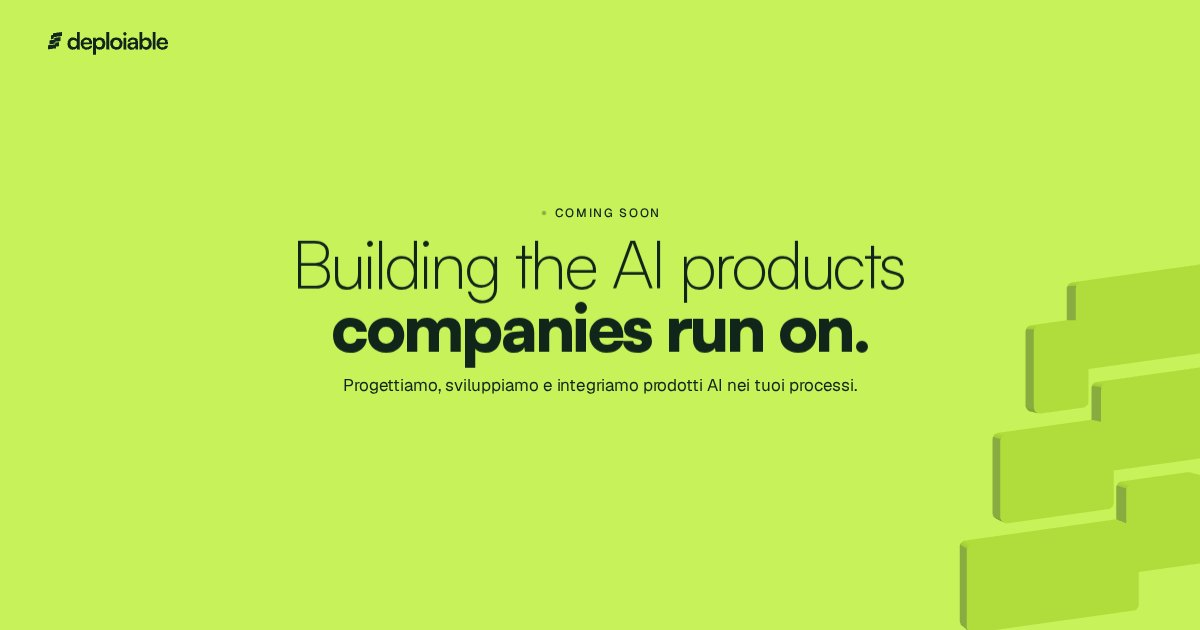
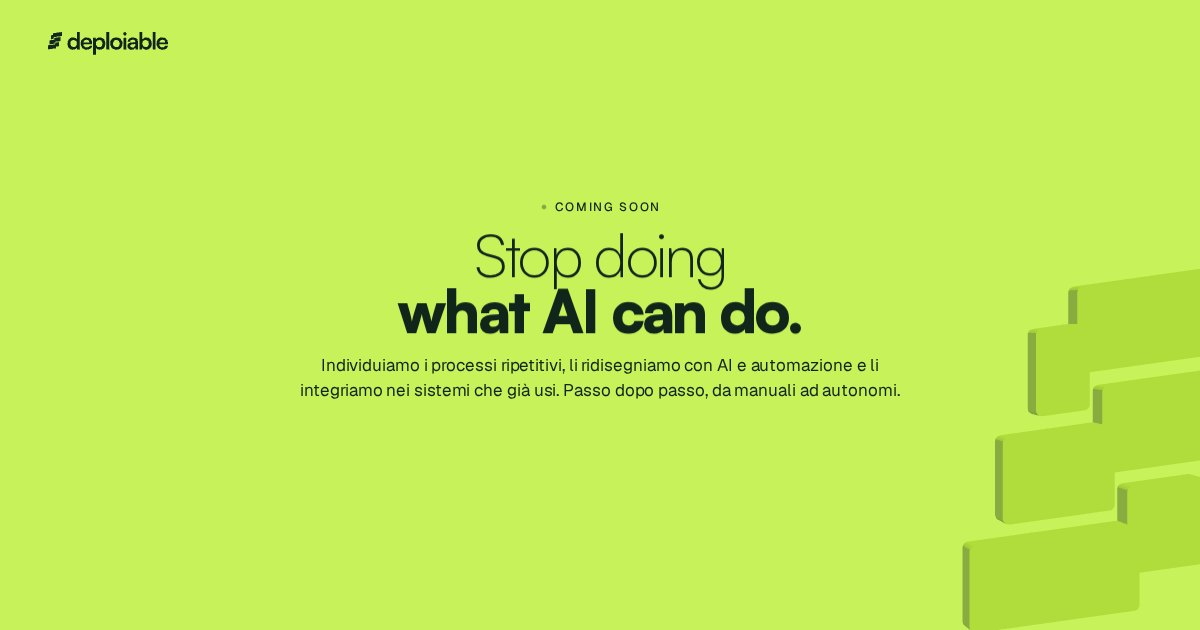
Comunicazione sul cuore del servizio: "Stop doing what AI can do."
- Headline "Stop doing / what AI can do.", corpo ricalcolato per le nuove
  righe (hero centrato in altezza, righe centrate sui pixel)
- Sottotitolo: individuiamo i processi ripetitivi, li ridisegniamo con AI e
  automazione, li integriamo nei sistemi esistenti; da manuali ad autonomi
- Racconto: Analisi, Riprogettazione, Autonomia (EN: Discovery, Redesign,
  Autonomy); il terzo step racconta il passaggio da assistito ad autonomo
- Chiusura: una riga sui prodotti AI-native che nascono dai bisogni delle
  aziende
- Meta, anteprima social e test aggiornati

Claude-Session: https://claude.ai/code/session_01PeA7XYbHTW5WLG5P8a7u88

diff --git a/site/index.html b/site/index.html
@@ -3,12 +3,12 @@
   <head>
     <meta charset="utf-8" />
     <meta name="viewport" content="width=device-width, initial-scale=1, viewport-fit=cover" />
-    <title>Deploiable · Building the AI products companies run on.</title>
-    <meta name="description" content="Building the AI products companies run on. Progettiamo, sviluppiamo e integriamo prodotti AI nei tuoi processi. Coming soon." data-i18n-attr="content:meta.description" />
+    <title>Deploiable · Stop doing what AI can do.</title>
+    <meta name="description" content="Stop doing what AI can do. Individuiamo i processi ripetitivi, li ridisegniamo con AI e automazione e li integriamo nei sistemi che già usi. Passo dopo passo, da manuali ad autonomi. Coming soon." data-i18n-attr="content:meta.description" />
     <meta name="theme-color" content="#10261B" />
     <meta property="og:type" content="website" />
-    <meta property="og:title" content="Deploiable · Building the AI products companies run on." data-i18n-attr="content:meta.title" />
-    <meta property="og:description" content="Progettiamo, sviluppiamo e integriamo prodotti AI nei tuoi processi. Coming soon." data-i18n-attr="content:og.description" />
+    <meta property="og:title" content="Deploiable · Stop doing what AI can do." data-i18n-attr="content:meta.title" />
+    <meta property="og:description" content="Individuiamo i processi ripetitivi, li ridisegniamo con AI e automazione e li integriamo nei sistemi che già usi. Passo dopo passo, da manuali ad autonomi. Coming soon." data-i18n-attr="content:og.description" />
     <meta property="og:locale" content="it_IT" />
     <meta property="og:locale:alternate" content="en_GB" />
     <meta property="og:image" content="%VITE_SITE_URL%og.jpg" />
@@ -44,10 +44,10 @@
       <section class="hero">
         <p class="soon"><i class="soon-dot" aria-hidden="true"></i><span data-i18n="launch" lang="en">Coming soon</span></p>
         <h1 class="claim">
-          <span class="mask"><span class="line line--light" lang="en">Building the AI products</span></span>
-          <span class="mask"><span class="line line--black" lang="en">companies run on.</span></span>
+          <span class="mask"><span class="line line--light" lang="en">Stop doing</span></span>
+          <span class="mask"><span class="line line--black" lang="en">what AI can do.</span></span>
         </h1>
-        <p class="sub" data-i18n="sub">Progettiamo, sviluppiamo e integriamo prodotti AI nei tuoi processi.</p>
+        <p class="sub" data-i18n="sub">Individuiamo i processi ripetitivi, li ridisegniamo con AI e automazione e li integriamo nei sistemi che già usi. Passo dopo passo, da manuali ad autonomi.</p>
         <div class="outro">
           <p class="offer-title" data-i18n="form.offer.title">AI process review gratuita</p>
           <p class="offer" data-i18n="form.offer">Per le prime 20 aziende: analizziamo i tuoi processi e ti mostriamo dove l’AI rende di più.</p>
@@ -105,24 +105,25 @@
             <div class="story-acts">
               <article class="act">
                 <p class="act-kicker" data-i18n="story.1k">Analisi</p>
-                <h2 class="act-title" data-i18n="story.1">Partiamo dal problema.</h2>
-                <p class="act-sub" data-i18n="story.1s">Analizziamo i processi e individuiamo dove l’AI porta un beneficio misurabile: tempo, errori, qualità delle decisioni.</p>
+                <h2 class="act-title" data-i18n="story.1">Troviamo il lavoro ripetitivo.</h2>
+                <p class="act-sub" data-i18n="story.1s">Mappiamo i processi e individuiamo quelli dove AI e automazione fanno risparmiare più tempo ed errori.</p>
               </article>
               <article class="act">
-                <p class="act-kicker" data-i18n="story.2k">Sviluppo</p>
-                <h2 class="act-title" data-i18n="story.2">Costruiamo il prodotto.</h2>
-                <p class="act-sub" data-i18n="story.2s">Lo sviluppiamo su misura per te, oppure partiamo da un nostro prodotto già validato sul mercato.</p>
+                <p class="act-kicker" data-i18n="story.2k">Riprogettazione</p>
+                <h2 class="act-title" data-i18n="story.2">Lo ridisegniamo con l’AI.</h2>
+                <p class="act-sub" data-i18n="story.2s">Ripensiamo il processo attorno ad AI e automazione e lo colleghiamo ai sistemi che già usi: ERP, CRM, email, documenti.</p>
               </article>
               <article class="act">
-                <p class="act-kicker" data-i18n="story.3k">Adozione</p>
-                <h2 class="act-title" data-i18n="story.3">Lo mettiamo in produzione.</h2>
-                <p class="act-sub" data-i18n="story.3s">Integrato nei tuoi sistemi, con KPI per misurarne l’impatto e regole chiare per farlo crescere in sicurezza.</p>
+                <p class="act-kicker" data-i18n="story.3k">Autonomia</p>
+                <h2 class="act-title" data-i18n="story.3">Lo rendiamo autonomo, un passo alla volta.</h2>
+                <p class="act-sub" data-i18n="story.3s">Prima l’AI assiste le persone, poi esegue da sola dove è sicuro farlo. Ogni passaggio è misurato con i KPI.</p>
               </article>
             </div>
             <div class="story-meter" aria-hidden="true"><i></i><i></i><i></i></div>
           </div>
           <article class="act act--end">
-            <p class="act-claim" lang="en"><span>Building the AI products </span><strong>companies run on.</strong></p>
+            <p class="act-claim" lang="en"><span>Stop doing </span><strong>what AI can do.</strong></p>
+            <p class="act-note" data-i18n="end.note">Dai bisogni che troviamo nelle aziende nascono anche i nostri prodotti AI-native.</p>
             <a class="act-cta" href="#signup-email"><span data-i18n="form.submit">Prenota la tua AI process review</span></a>
           </article>
         </div>

diff --git a/site/src/i18n.ts b/site/src/i18n.ts
@@ -12,10 +12,10 @@ export type Lang = 'it' | 'en';
 /** Etichetta del lancio: niente data per ora, solo "Coming soon" (in maiuscolo dal CSS), uguale nelle due lingue. */
 export const LAUNCH = 'Coming soon';
 
-const TAGLINE = 'Building the AI products companies run on.'; // resta in inglese in entrambe le lingue: breve e diretta, è la firma del brand
+const TAGLINE = 'Stop doing what AI can do.'; // resta in inglese in entrambe le lingue: breve e diretta, è la firma del brand
 const SUB = {
-  it: 'Progettiamo, sviluppiamo e integriamo prodotti AI nei tuoi processi.',
-  en: 'We design, build and integrate AI products into your processes.',
+  it: 'Individuiamo i processi ripetitivi, li ridisegniamo con AI e automazione e li integriamo nei sistemi che già usi. Passo dopo passo, da manuali ad autonomi.',
+  en: 'We identify repetitive processes, redesign them around AI and automation and integrate them with the systems you already use. Step by step, from manual to autonomous.',
 };
 
 const DICT = {
@@ -48,14 +48,15 @@ const DICT = {
     'proof.line': 'clienti dal 2021',
     'story.label': 'Come lavoriamo',
     'story.1k': 'Analisi',
-    'story.2k': 'Sviluppo',
-    'story.3k': 'Adozione',
-    'story.1': 'Partiamo dal problema.',
-    'story.1s': 'Analizziamo i processi e individuiamo dove l’AI porta un beneficio misurabile: tempo, errori, qualità delle decisioni.',
-    'story.2': 'Costruiamo il prodotto.',
-    'story.2s': 'Lo sviluppiamo su misura per te, oppure partiamo da un nostro prodotto già validato sul mercato.',
-    'story.3': 'Lo mettiamo in produzione.',
-    'story.3s': 'Integrato nei tuoi sistemi, con KPI per misurarne l’impatto e regole chiare per farlo crescere in sicurezza.',
+    'story.2k': 'Riprogettazione',
+    'story.3k': 'Autonomia',
+    'story.1': 'Troviamo il lavoro ripetitivo.',
+    'story.1s': 'Mappiamo i processi e individuiamo quelli dove AI e automazione fanno risparmiare più tempo ed errori.',
+    'story.2': 'Lo ridisegniamo con l’AI.',
+    'story.2s': 'Ripensiamo il processo attorno ad AI e automazione e lo colleghiamo ai sistemi che già usi: ERP, CRM, email, documenti.',
+    'story.3': 'Lo rendiamo autonomo, un passo alla volta.',
+    'story.3s': 'Prima l’AI assiste le persone, poi esegue da sola dove è sicuro farlo. Ogni passaggio è misurato con i KPI.',
+    'end.note': 'Dai bisogni che troviamo nelle aziende nascono anche i nostri prodotti AI-native.',
     'foot.mark': 'Deploiable è un marchio di WDA srl',
     'foot.vat': 'P.IVA e C.F.',
     'foot.pec': 'PEC',
@@ -94,15 +95,16 @@ const DICT = {
     'msg.closed': 'Requests open very soon.',
     'proof.line': 'clients since 2021',
     'story.label': 'How we work',
-    'story.1k': 'Assessment',
-    'story.2k': 'Build',
-    'story.3k': 'Adoption',
-    'story.1': 'We start from the problem.',
-    'story.1s': 'We analyse your processes and pinpoint where AI brings a measurable gain: time, errors, quality of decisions.',
-    'story.2': 'We build the product.',
-    'story.2s': 'Custom-built for you, or starting from one of our products already proven on the market.',
-    'story.3': 'We put it into production.',
-    'story.3s': 'Integrated into your systems, with KPIs to measure its impact and clear rules to scale it safely.',
+    'story.1k': 'Discovery',
+    'story.2k': 'Redesign',
+    'story.3k': 'Autonomy',
+    'story.1': 'We find the repetitive work.',
+    'story.1s': 'We map your processes and pinpoint where AI and automation save the most time and errors.',
+    'story.2': 'We redesign it around AI.',
+    'story.2s': 'We rebuild the process around AI and automation and connect it to the systems you already use: ERP, CRM, email, documents.',
+    'story.3': 'We make it autonomous, step by step.',
+    'story.3s': 'First AI assists your people, then it runs on its own where it’s safe. Every step is measured with KPIs.',
+    'end.note': 'From the needs we find in companies, we also build our own AI-native products.',
     'foot.mark': 'Deploiable is a trademark of WDA srl',
     'foot.vat': 'VAT no. & tax code',
     'foot.pec': 'Certified email',

diff --git a/site/src/styles/main.css b/site/src/styles/main.css
@@ -19,9 +19,9 @@
   --sans: 'Satoshi', 'Helvetica Neue', Arial, sans-serif;
   --text: 'Geist', 'Helvetica Neue', Arial, sans-serif; /* testi piccoli */
 
-  /* Il protagonista è la frase "Building the AI products companies run on.": il suo corpo è la misura di tutto il resto.
+  /* Il protagonista è la frase "Stop doing what AI can do.": il suo corpo è la misura di tutto il resto.
      Dipende da larghezza e altezza, così l'hero sta sempre in una schermata con aria sopra e sotto. */
-  --claim-fs: clamp(32px, min(7.6vw, 10.5svh), 112px);
+  --claim-fs: clamp(36px, min(9vw, 9.5svh), 132px);
   /* spazio fra frase, sottotitolo e blocco iscrizione */
   --gap: calc(var(--claim-fs) * 0.42);
   /* il logo nell'header: piccolo, in alto a sinistra (la camera 3D finale lo inquadra qui, src/gl/stage.ts) */
@@ -73,7 +73,7 @@
   :root {
     --t-body: 400 16px / 1.55 var(--text);
     /* su telefono la frase occupa quasi tutta la larghezza (le due righe sono lunghe uguali) */
-    --claim-fs: clamp(30px, min(9.2vw, 10.5svh), 112px);
+    --claim-fs: clamp(34px, min(12.5vw, 11svh), 140px);
   }
 }
 
@@ -234,9 +234,8 @@ p {
 .line--light {
   font-weight: 300;
   color: var(--ink-light);
-  /* centratura ottica di "Building the AI products": la B ha poca aria a sinistra, la s finale ne ha di più;
-     la riga va spinta di poco a sinistra (misurato sui pixel con scripts/align.mjs) */
-  margin-left: -0.08em;
+  /* centratura ottica (misurata sui pixel con scripts/align.mjs) */
+  margin-left: 0;
 }
 .line--black {
   font-weight: 900;
@@ -260,7 +259,7 @@ p {
   will-change: transform;
 }
 
-/* Macchina da scrivere su "companies run on." (src/app.ts): le lettere cancellate tengono il loro posto, il cursore è
+/* Macchina da scrivere su "what AI can do." (src/app.ts): le lettere cancellate tengono il loro posto, il cursore è
    una barra sottile alta quanto le ascendenti, che scorre a scatti di lettera in lettera. */
 .tw {
   position: relative;
@@ -963,6 +962,14 @@ p {
 .act-claim strong {
   display: block;
   font-weight: 900;
+}
+/* il secondo pilastro: i prodotti, una riga sotto la frase */
+.act-note {
+  max-width: 36em;
+  margin: calc(-1 * var(--s-3)) auto var(--s-6);
+  font: var(--t-body);
+  text-wrap: balance;
+  color: var(--moss-ink);
 }
 .act-cta {
   display: inline-flex;

diff --git a/site/tests/e2e/i18n.spec.ts b/site/tests/e2e/i18n.spec.ts
@@ -8,7 +8,7 @@ test('italiano predefinito, inglese col toggle: testi, lang, title e meta', asyn
   await page.goto('/');
   await page.waitForFunction(() => window.__DEPLOIABLE__?.ready === true);
   await expect(page.locator('html')).toHaveAttribute('lang', 'it');
-  await expect(page.locator('.sub')).toHaveText(/Progettiamo, sviluppiamo e integriamo prodotti AI/);
+  await expect(page.locator('.sub')).toHaveText(/Individuiamo i processi ripetitivi/);
   await expect(page.locator('.soon')).toHaveText(/Coming soon/);
   await expect(page.locator('#signup-email')).toHaveAttribute('placeholder', 'nome@azienda.it');
   await expect(page.locator('[data-lang="it"]')).toHaveAttribute('aria-pressed', 'true');
@@ -18,12 +18,12 @@ test('italiano predefinito, inglese col toggle: testi, lang, title e meta', asyn
 
   await page.click('[data-lang="en"]');
   await expect(page.locator('html')).toHaveAttribute('lang', 'en');
-  await expect(page.locator('.sub')).toHaveText('We design, build and integrate AI products into your processes.');
+  await expect(page.locator('.sub')).toHaveText('We identify repetitive processes, redesign them around AI and automation and integrate them with the systems you already use. Step by step, from manual to autonomous.');
   await expect(page.locator('.soon')).toHaveText(/Coming soon/);
   await expect(page.locator('[data-lang="en"]')).toHaveAttribute('aria-pressed', 'true');
-  expect(await meta(page, 'meta[name="description"]')).toMatch(/into your processes\. Coming soon\./);
-  expect(await meta(page, 'meta[property="og:description"]')).toMatch(/We design, build and integrate/);
-  await expect(page).toHaveTitle('Deploiable · Building the AI products companies run on.');
+  expect(await meta(page, 'meta[name="description"]')).toMatch(/from manual to autonomous\. Coming soon\./);
+  expect(await meta(page, 'meta[property="og:description"]')).toMatch(/We identify repetitive processes/);
+  await expect(page).toHaveTitle('Deploiable · Stop doing what AI can do.');
 
   // la scelta vale per la sessione
   await page.reload();

diff --git a/site/tests/e2e/film.spec.ts b/site/tests/e2e/film.spec.ts
@@ -592,24 +592,24 @@ test('prova sociale: riga di credibilità e loghi dei clienti in loop sotto il m
   await expect(page.locator('.proof-line')).toHaveText('70+ clients since 2021');
 });
 
-test('macchina da scrivere: "companies run on." si cancella e si riscrive in ciclo, senza spostare la riga', async ({ page }) => {
+test('macchina da scrivere: "what AI can do." si cancella e si riscrive in ciclo, senza spostare la riga', async ({ page }) => {
   await openFilm(page, '', 'high');
   const st = () => page.evaluate(() => window.__DEPLOIABLE__!.state!());
   const visible = () => page.locator('.tw .ch:not(.off)').count();
-  // il titolo resta "Building the AI products companies run on." per i lettori di schermo, qualunque cosa mostri la macchina da scrivere
-  await expect(page.getByRole('heading', { level: 1 })).toHaveAccessibleName(/Building the AI products\s*companies run on\./);
+  // il titolo resta "Stop doing what AI can do." per i lettori di schermo, qualunque cosa mostri la macchina da scrivere
+  await expect(page.getByRole('heading', { level: 1 })).toHaveAccessibleName(/Stop doing\s*what AI can do\./);
   await seek(page, END);
-  expect(await visible()).toBe(17);
+  expect(await visible()).toBe(15);
   const full = (await page.locator('.tw').boundingBox())!;
   await seek(page, TW_START + TW_HOLD + TW_ERASE * 2.5);
-  expect((await st()).tw).toBe(14);
+  expect((await st()).tw).toBe(12);
   expect((await st()).caret).toBe(true);
-  expect(await visible()).toBe(14);
+  expect(await visible()).toBe(12);
   await expect(page.locator('.tw-caret')).toHaveClass(/on/);
   // la parola non si ricentra mentre si cancella
   const mid = (await page.locator('.tw').boundingBox())!;
   expect(Math.abs(mid.x - full.x)).toBeLessThanOrEqual(0.5);
-  await seek(page, TW_START + TW_HOLD + TW_ERASE * 17 + 0.2);
+  await seek(page, TW_START + TW_HOLD + TW_ERASE * 15 + 0.2);
   expect((await st()).tw).toBe(0);
   // e torna intera
   await seek(page, TW_START + 20 * 3);

diff --git a/site/tests/e2e/story.spec.ts b/site/tests/e2e/story.spec.ts
@@ -21,8 +21,8 @@ test('racconto: tre step e la chiusura, uno alla volta mentre si scorre', async 
   await openFilm(page, '', 'high');
   await seek(page, 7.3);
   await expect(page.locator('.story .act')).toHaveCount(4);
-  await expect(page.locator('.story .act-title')).toHaveText(['Partiamo dal problema.', 'Costruiamo il prodotto.', 'Lo mettiamo in produzione.']);
-  await expect(page.locator('.story .act-kicker')).toHaveText(['Analisi', 'Sviluppo', 'Adozione']);
+  await expect(page.locator('.story .act-title')).toHaveText(['Troviamo il lavoro ripetitivo.', 'Lo ridisegniamo con l’AI.', 'Lo rendiamo autonomo, un passo alla volta.']);
+  await expect(page.locator('.story .act-kicker')).toHaveText(['Analisi', 'Riprogettazione', 'Autonomia']);
   for (const stage of [0, 1, 2, 3]) {
     await scrollToStage(page, stage + (stage < 3 ? 0.25 : 0));
     await seek(page, 7.3);
@@ -46,8 +46,8 @@ test('racconto: tre step e la chiusura, uno alla volta mentre si scorre', async 
 test('racconto: il pulsante della chiusura riporta al modulo, in inglese con il toggle', async ({ page }) => {
   await openFilm(page, '', 'high');
   await page.click('[data-lang="en"]');
-  await expect(page.locator('.story .act-title').first()).toHaveText('We start from the problem.');
-  await expect(page.locator('.story .act-kicker')).toHaveText(['Assessment', 'Build', 'Adoption']);
+  await expect(page.locator('.story .act-title').first()).toHaveText('We find the repetitive work.');
+  await expect(page.locator('.story .act-kicker')).toHaveText(['Discovery', 'Redesign', 'Autonomy']);
   await expect(page.locator('.story .act-cta')).toHaveText('Book your AI process review');
   await scrollToStage(page, 3);
   await seek(page, 7.3);

diff --git a/site/src/gl/story.ts b/site/src/gl/story.ts
@@ -25,7 +25,7 @@ import { PIVOT, REST, SYMBOL_H, SYMBOL_W } from './symbol/symbolSpec';
 //             (un piccolo assestamento e un lampo sugli spigoli) e diventa Lime metallico; al terzo step il
 //             simbolo è completo
 //   chiusura  il Lime sale dal basso, il simbolo diventa Forest e si gira di fronte, sopra
-//             "Building the AI products companies run on." e il pulsante per la review
+//             "Stop doing what AI can do." e il pulsante per la review
 // Senza WebGL (o con riduzione del movimento) la stessa sezione è una pagina statica: testi uno sotto l'altro.
 
 const ORDER = [2, 1, 0]; // barra di ogni step: bassa, centrale, alta

diff --git a/site/tests/e2e/fallback.spec.ts b/site/tests/e2e/fallback.spec.ts
@@ -11,7 +11,7 @@ test.describe('versione statica', () => {
     expect(await page.evaluate(() => window.__DEPLOIABLE__!.mode)).toBe('static');
     expect(scripts.some((u) => /\/app-.*\.js/.test(u))).toBe(false);
     await expect(page.locator('.logo-slot svg')).toBeVisible();
-    await expect(page.getByRole('heading', { name: /Building the AI products/ })).toBeVisible();
+    await expect(page.getByRole('heading', { name: /Stop doing/ })).toBeVisible();
     // il logo completo sta sopra la frase, e tutto dentro lo schermo
     const sym = (await page.locator('.logo-slot svg').boundingBox())!;
     const txt = (await page.locator('.claim').boundingBox())!;

diff --git a/site/src/app.ts b/site/src/app.ts
@@ -47,7 +47,7 @@ export async function start(caps: Capabilities) {
   );
   const slotEl = document.querySelector<HTMLElement>('.logo-slot')!;
 
-  // Macchina da scrivere su "companies run on.": ogni lettera è uno <span>; quelle "cancellate" restano al loro posto
+  // Macchina da scrivere su "what AI can do.": ogni lettera è uno <span>; quelle "cancellate" restano al loro posto
   // (visibility: hidden), così la parola non si ricentra a ogni lettera. Il testo intero resta per i lettori di schermo.
   const twLine = document.querySelector<HTMLElement>('.line--black')!;
   const word = twLine.textContent ?? '';

diff --git a/site/src/gl/timeline.ts b/site/src/gl/timeline.ts
@@ -24,7 +24,7 @@ export const TIMES = {
 export const LOOP_PERIOD = 5;
 export const LOOP_START = DURATION + 1.2;
 
-/** Macchina da scrivere su "companies run on.": dopo TW_START, in ciclo. Ferma per TW_HOLD a parola intera, poi
+/** Macchina da scrivere su "what AI can do.": dopo TW_START, in ciclo. Ferma per TW_HOLD a parola intera, poi
  *  si cancella lettera per lettera, una pausa a vuoto, si riscrive lettera per lettera. */
 export const TW_START = DURATION + 3;
 export const TW_HOLD = 5.2;
